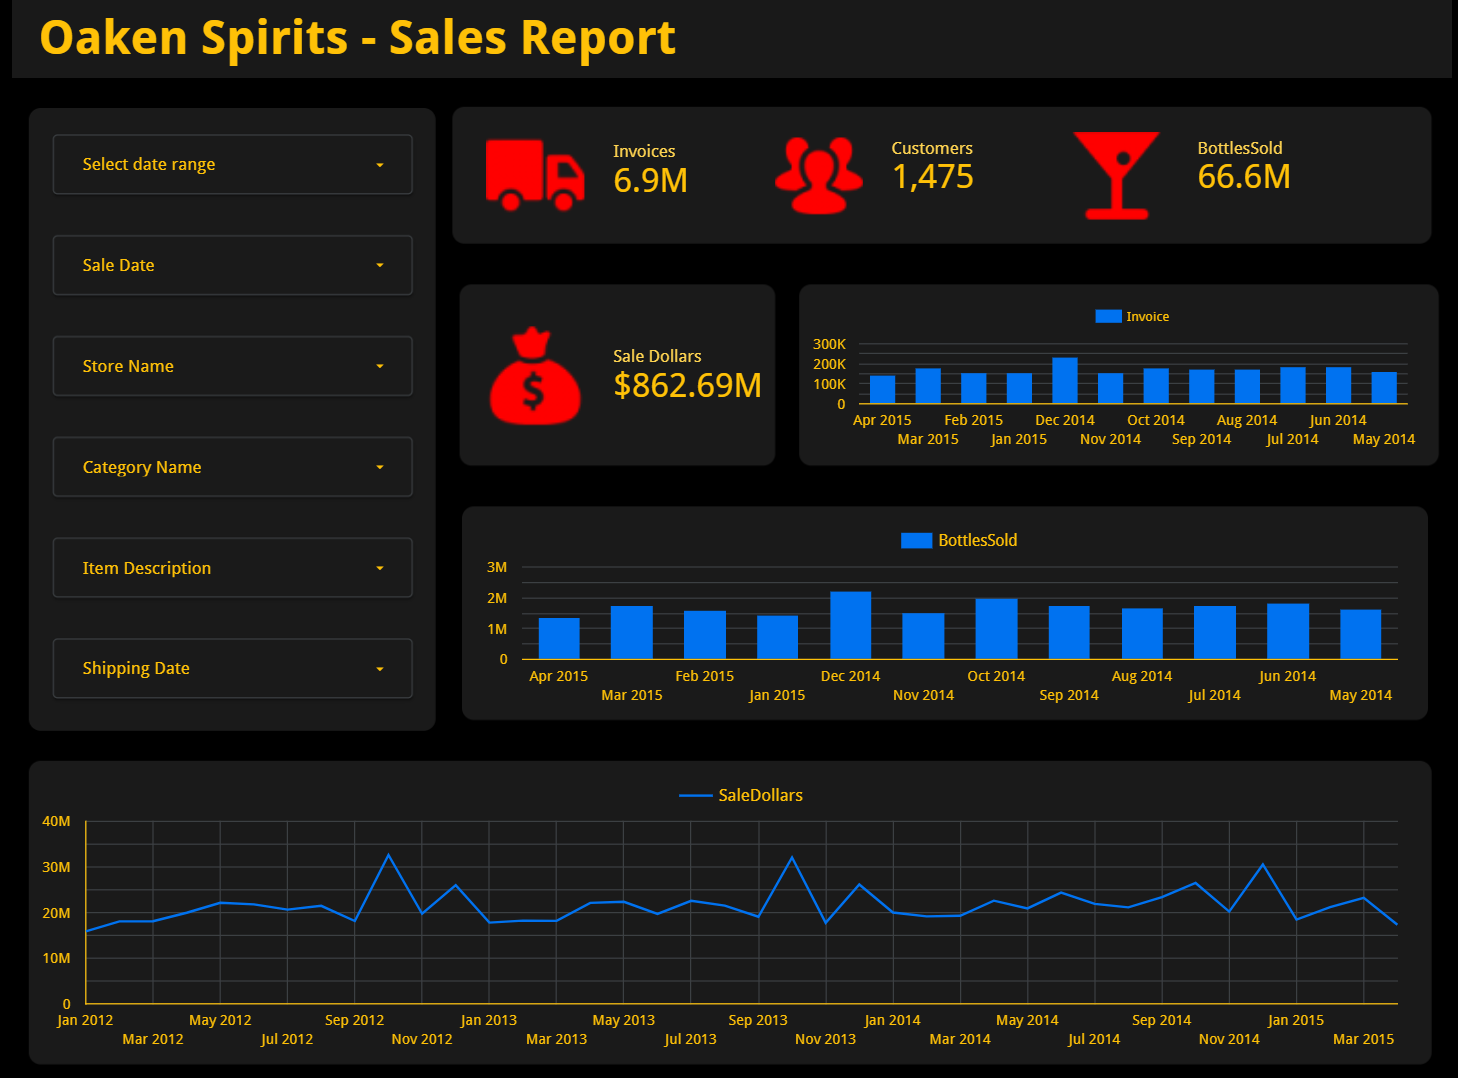
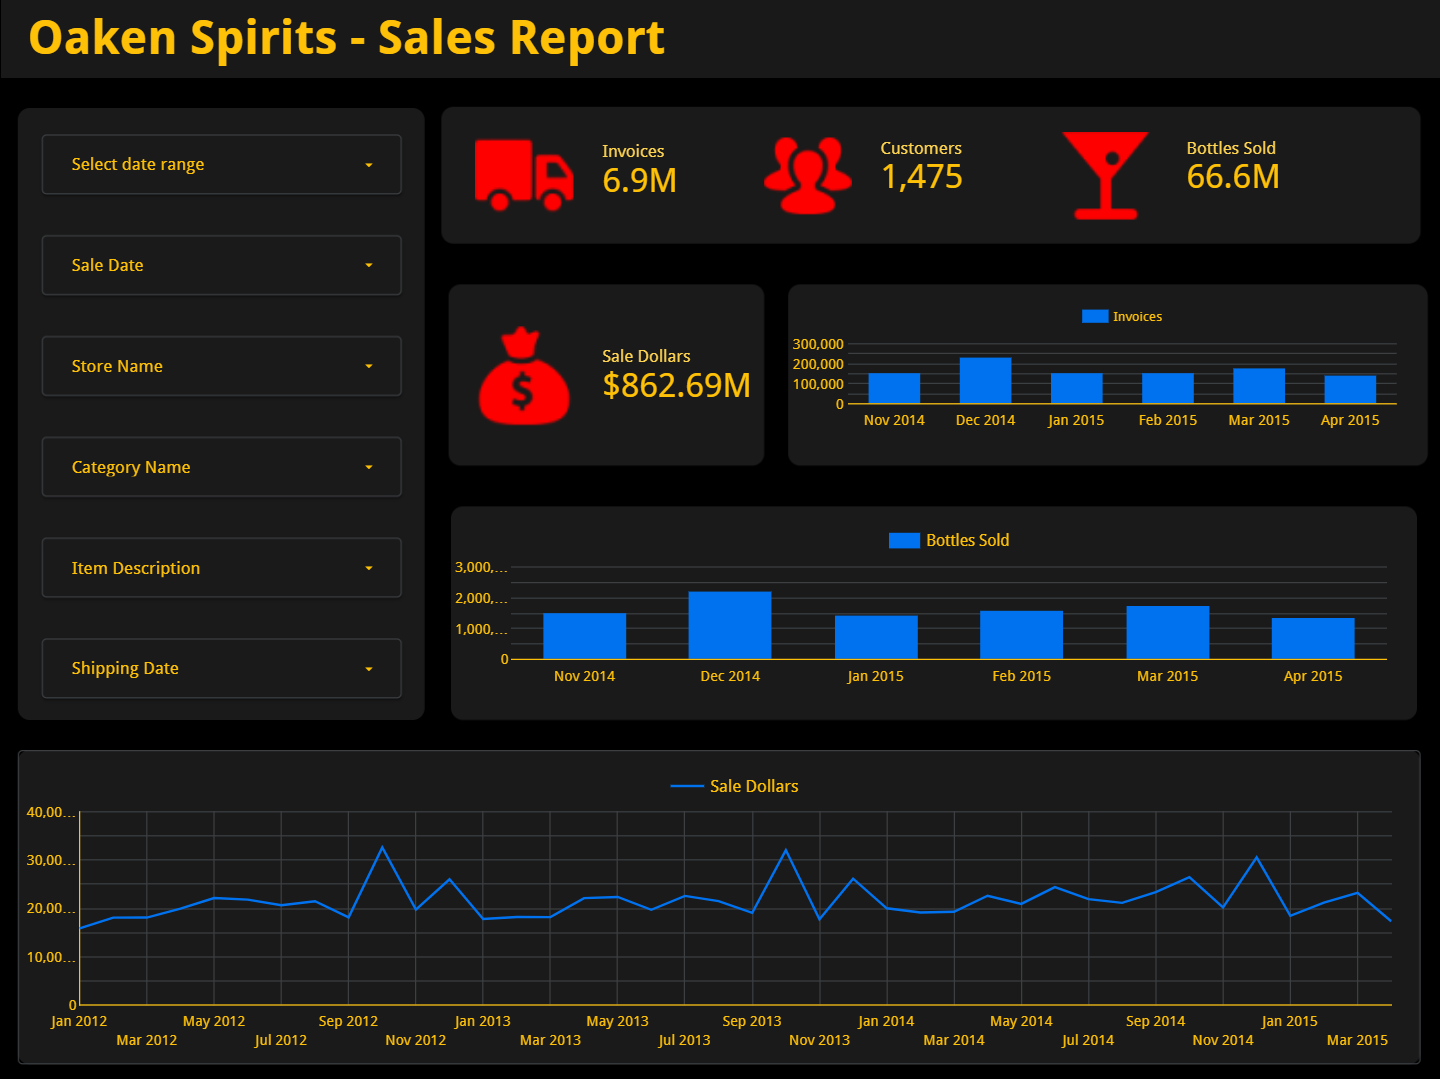
dashboard complete, no prediction

diff --git a/DASHBOARD.md b/DASHBOARD.md
@@ -41,10 +41,12 @@
     - Bottles Sold: Scorecard with compact numbers
     - Sales Dollars: Scorecard with compact numbers
 1. Charts: Bar and Line
+    - All align legend center
     - All have Date range Dimension SaleDate
     - All have dimension of SaleDate(YearMonth)
     - All sort SaleDate(Date) Descending.
     - In Style, Bars 12. This provides the latest date and goes back at least 12 months.
+    - Reverse x-axis for bar charts
     - Top bar: Invoice
     - Middle bar: BottlesSold
     - Bottom is Time series, Sales Dollars
